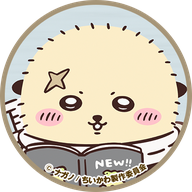
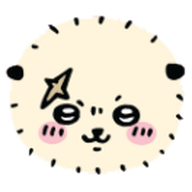
퍼즐 얼굴을 새 이미지로, 시사 자리에 카니, 쿠리만쥬를 7번째 구슬로
- 얼굴 7종을 배경 없는 그림으로 바꾸고 동그란 테두리 대신 그림자만
- 회복 담당은 카니, 쿠리만쥬는 공격 구슬, 5매치 폭탄은 무지개 별 구슬
- 구슬 7종이 되어 7~10 스테이지 몬스터 체력과 마지막 보스 공격력을 낮춤

diff --git a/js/data.js b/js/data.js
@@ -5,7 +5,8 @@ const CHARS = [
   { id: 'usagi',     name: '우사기',   ring: '#ffd84d', dmg: 9,  crit: 0.3, line: '우라!' },
   { id: 'momonga',   name: '모몽가',   ring: '#8fd3ea', dmg: 11, line: '칭찬해줘!' },
   { id: 'rakko',     name: '랏코',     ring: '#a9a9a9', dmg: 13, line: '…간다.' },
-  { id: 'shisa',     name: '시사',     ring: '#ff9f5a', heal: 4, line: '힘내자!' },
+  { id: 'kani',      name: '카니',     ring: '#f4a3a8', heal: 4, line: '힘내!' },
+  { id: 'kurimanju', name: '쿠리만쥬', ring: '#c99a6b', dmg: 12, line: '……(캬아)' },
 ];
 const FACE = id => `assets/img/faces/${id}.png`;
 const BODY = id => `assets/img/chars/${id}.png`;
@@ -24,10 +25,10 @@ const STAGES = [
   { name: '숲 속 순찰',     waves: [{ m: 'chimera', hp: 320, atk: 12, cd: 3 }, { m: 'mimic', hp: 440, atk: 16, cd: 3 }] },
   { name: '데카츠요 습격',  waves: [{ m: 'dekatsuyo', hp: 950, atk: 22, cd: 4, boss: true }] },
   { name: '푸른 무리',      waves: [{ m: 'chimera', hp: 480, atk: 14, cd: 3, hue: 200, title: '푸른' }, { m: 'chimera', hp: 520, atk: 14, cd: 3, hue: 200, title: '푸른' }] },
-  { name: '붉은 미믹',      waves: [{ m: 'mimic', hp: 600, atk: 18, cd: 3 }, { m: 'mimic', hp: 720, atk: 20, cd: 3, hue: 320, title: '붉은' }] },
-  { name: '연속 토벌',      waves: [{ m: 'chimera', hp: 560, atk: 15, cd: 3 }, { m: 'mimic', hp: 680, atk: 18, cd: 3 }, { m: 'chimera', hp: 760, atk: 18, cd: 3, hue: 100, title: '초록' }] },
-  { name: '성급한 녀석',    waves: [{ m: 'chimera', hp: 1100, atk: 16, cd: 2, hue: 250, title: '보라' }] },
-  { name: '토벌 대작전',    waves: [{ m: 'mimic', hp: 800, atk: 20, cd: 3 }, { m: 'chimera', hp: 900, atk: 20, cd: 3, hue: 200, title: '푸른' }, { m: 'dekatsuyo', hp: 1600, atk: 28, cd: 4, hue: 30, title: '진·', boss: true }] },
+  { name: '붉은 미믹',      waves: [{ m: 'mimic', hp: 520, atk: 18, cd: 3 }, { m: 'mimic', hp: 620, atk: 20, cd: 3, hue: 320, title: '붉은' }] },
+  { name: '연속 토벌',      waves: [{ m: 'chimera', hp: 480, atk: 15, cd: 3 }, { m: 'mimic', hp: 580, atk: 18, cd: 3 }, { m: 'chimera', hp: 650, atk: 18, cd: 3, hue: 100, title: '초록' }] },
+  { name: '성급한 녀석',    waves: [{ m: 'chimera', hp: 950, atk: 16, cd: 2, hue: 250, title: '보라' }] },
+  { name: '토벌 대작전',    waves: [{ m: 'mimic', hp: 680, atk: 20, cd: 3 }, { m: 'chimera', hp: 760, atk: 20, cd: 3, hue: 200, title: '푸른' }, { m: 'dekatsuyo', hp: 1350, atk: 24, cd: 4, hue: 30, title: '진·', boss: true }] },
 ];
 
 // 스테이지 시작 전 짧은 대사 (팬 창작)
@@ -36,7 +37,7 @@ const STORY = {
     ['hachiware', '토벌 게시판에 새 의뢰가 붙었어!'],
     ['chiikawa', '(끄덕끄덕…)'],
     ['usagi', '우라~!'],
-    ['hachiware', '같은 얼굴을 셋 맞추면 그 친구가 공격해. 시사는 회복이야!'],
+    ['hachiware', '같은 얼굴을 셋 맞추면 그 친구가 공격해. 카니는 회복이야!'],
   ],
   2: [
     ['momonga', '저 상자, 수상해. 내가 먼저 찾았으니까 칭찬해줘!'],
@@ -58,5 +59,5 @@ const STORY = {
     ['kurimanju', '……(건배)'],
   ],
 };
-const CHAR_NAME = { kurimanju: '쿠리만쥬' };
+const CHAR_NAME = { shisa: '시사' };
 CHARS.forEach(c => (CHAR_NAME[c.id] = c.name));

diff --git a/css/style.css b/css/style.css
@@ -76,8 +76,8 @@ button { font-family: inherit; color: inherit; cursor: pointer; border: 0; }
 
 #team { padding: 6px 12px 4px; background: #fff; border-bottom: 3px solid #f6dbe5; }
 #party { display: flex; justify-content: space-between; margin-bottom: 5px; }
-#party .pm { position: relative; width: 15%; aspect-ratio: 1; border-radius: 50%; }
-#party .pm img { width: 100%; height: 100%; border-radius: 50%; border: 3px solid var(--ring); }
+#party .pm { position: relative; width: 13%; aspect-ratio: 1; border-radius: 50%; }
+#party .pm img { width: 100%; height: 100%; border-radius: 50%; border: 3px solid var(--ring); background: #fff; object-fit: contain; padding: 2px; }
 #party .pm.attack { animation: hop .35s ease-out; }
 #teamHp .fill { background: var(--team); }
 
@@ -87,11 +87,11 @@ button { font-family: inherit; color: inherit; cursor: pointer; border: 0; }
 .cellbg::after { content: ''; position: absolute; inset: 3px; border-radius: 30%; background: #ffeef4; }
 .tile { position: absolute; left: 0; top: 0; width: var(--s); height: var(--s); padding: 3px; will-change: transform; }
 .tile .inner { position: relative; width: 100%; height: 100%; border-radius: 50%; }
-.tile .inner img { width: 100%; height: 100%; border-radius: 50%; border: calc(var(--s) * .06) solid var(--ring); box-shadow: 0 3px 0 #0002; pointer-events: none; display: block; }
+.tile .inner img { width: 100%; height: 100%; object-fit: contain; filter: drop-shadow(0 3px 0 #0002); pointer-events: none; display: block; }
 .tile.sel .inner { animation: pulse .5s infinite; }
-.tile.sel .inner img { box-shadow: 0 0 0 3px #fff, 0 0 0 6px var(--pink-d); }
+.tile.sel .inner img { filter: drop-shadow(0 0 3px #fff) drop-shadow(0 0 5px var(--pink-d)); }
 .tile .inner.rainbow { background: conic-gradient(#ff8fb1, #ffd84d, #8fe38a, #7ec8ff, #c49bff, #ff8fb1); box-shadow: 0 3px 0 #0002, inset 0 0 0 3px #fff; animation: spin 3s linear infinite; }
-.tile .inner.rainbow img { border: 0; box-shadow: none; animation: spin 3s linear infinite reverse; background: transparent; transform: scale(.82); }
+.tile .inner.rainbow .rb { position: absolute; inset: 0; display: flex; align-items: center; justify-content: center; font-size: calc(var(--s) * .5); color: #fff; text-shadow: 0 2px 0 #0003; animation: spin 3s linear infinite reverse; }
 .mark { position: absolute; inset: 0; pointer-events: none; border-radius: 50%; }
 .mark.h { background: linear-gradient(transparent 38%, #fffc 38% 46%, transparent 46% 54%, #fffc 54% 62%, transparent 62%); }
 .mark.v { background: linear-gradient(90deg, transparent 38%, #fffc 38% 46%, transparent 46% 54%, #fffc 54% 62%, transparent 62%); }

diff --git a/js/game.js b/js/game.js
@@ -20,7 +20,8 @@ Save.load();
 const unlockedIdx = () => Math.min(Save.data.stars.length, STAGES.length - 1);
 
 // 이미지 미리 불러오기
-[...CHARS.map(c => FACE(c.id)), ...CHARS.map(c => BODY(c.id)), BODY('kurimanju'), ...Object.values(MONSTERS).map(m => m.img)]
+[...CHARS.map(c => FACE(c.id)),
+  ...['chiikawa', 'hachiware', 'usagi', 'momonga', 'rakko', 'shisa', 'kurimanju'].map(BODY), ...Object.values(MONSTERS).map(m => m.img)]
   .forEach(src => (new Image().src = src));
 
 // ---------- 공통 ----------
@@ -296,7 +297,7 @@ function refreshTile(t) {
   inner.className = 'inner';
   if (t.special === 'rainbow' || t.type < 0) {
     inner.classList.add('rainbow');
-    inner.innerHTML = `<img src="${BODY('kurimanju')}" draggable="false">`;
+    inner.innerHTML = '<span class="rb">★</span>';
     return;
   }
   const ch = CHARS[t.type];
@@ -469,7 +470,7 @@ async function cascade(swapped, forced) {
 async function comboFx(combo) {
   const [r, c] = combo.at;
   const p = tileCenter(r, c);
-  const names = { rainbow: '쿠리만쥬 폭탄!', rainbow2: '쿠리만쥬 대폭발!!', 'bomb+bomb': '대폭발!', 'bomb+h': '크로스 폭발!', 'bomb+v': '크로스 폭발!' };
+  const names = { rainbow: '무지개 폭탄!', rainbow2: '무지개 대폭발!!', 'bomb+bomb': '대폭발!', 'bomb+h': '크로스 폭발!', 'bomb+v': '크로스 폭발!' };
   const label = names[combo.kind] || '크로스!';
   if (combo.converted) Board.each(B.grid, t => t.special && refreshTile(t));
   Sound.play(combo.kind.startsWith('rainbow') ? 'rainbow' : 'special', 1);

diff --git a/js/board.js b/js/board.js
@@ -1,5 +1,5 @@
 // 3매치 판 로직 (화면과 분리). 타일: { id, type(0~5, 무지개는 -1), special: null|'h'|'v'|'bomb'|'rainbow' }
-const ROWS = 7, COLS = 7, NTYPES = 6;
+const ROWS = 7, COLS = 7, NTYPES = 7;
 let nextTileId = 1;
 const newTile = (type, special = null) => ({ id: nextTileId++, type, special });
 const randType = () => Math.floor(Math.random() * NTYPES);

diff --git a/README.md b/README.md
@@ -12,13 +12,13 @@
 ## 놀이 방법
 
 - 옆 칸의 얼굴과 자리를 바꿔 같은 얼굴 3개 이상을 맞추면, 그 캐릭터가 몬스터를 공격합니다.
-- 시사를 맞추면 공격 대신 체력을 회복합니다. 우사기는 가끔 치명타("우라!")를 냅니다.
+- 카니를 맞추면 공격 대신 체력을 회복합니다. 우사기는 가끔 치명타("우라!")를 냅니다.
 - 연쇄로 터질수록 피해가 커집니다.
 - 몬스터는 몇 턴마다 반격합니다. 체력이 다 떨어지면 후퇴합니다.
 - 특수 구슬
   - 4개 한 줄: 한 줄을 지우는 줄폭탄
   - L, T 모양: 주변을 터뜨리는 폭탄
-  - 5개 한 줄: 한 캐릭터를 전부 지우는 쿠리만쥬 폭탄
+  - 5개 한 줄: 한 캐릭터를 전부 지우는 무지개 폭탄
   - 특수 구슬끼리 바꾸면 더 큰 효과
 - 스테이지 10개, 남은 체력에 따라 별 1~3개
 
@@ -34,7 +34,7 @@ python -m http.server 8770
 
 ## 저작권과 출처
 
-- 캐릭터, 몬스터 이미지: © nagano / chiikawa committee. [Chiikawa Wiki (Fandom)](https://chiikawa.fandom.com/)에서 가져왔습니다. 이미지의 권리는 원저작자에게 있으며, 이 저장소의 라이선스 대상이 아닙니다.
+- 캐릭터, 몬스터 이미지: © nagano / chiikawa committee. 퍼즐 얼굴은 인터넷에서 모은 이미지, 전신과 몬스터는 [Chiikawa Wiki (Fandom)](https://chiikawa.fandom.com/)에서 가져왔습니다. 이미지의 권리는 원저작자에게 있으며, 이 저장소의 라이선스 대상이 아닙니다.
 - 효과음: [Kenney](https://kenney.nl) Interface Sounds, Digital Audio, Impact Sounds (CC0). 라이선스 원문은 `assets/sfx/LICENSE-kenney.txt`
 - 글꼴: [Jua](https://fonts.google.com/specimen/Jua) (Google Fonts, SIL Open Font License)
 - 게임 코드(`js/`, `css/`, `index.html`): 팬 창작물
